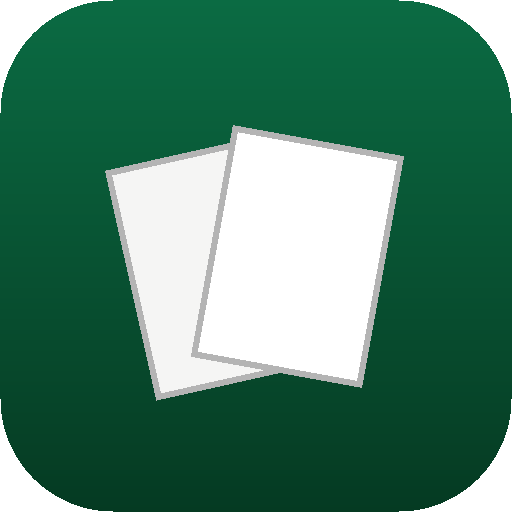
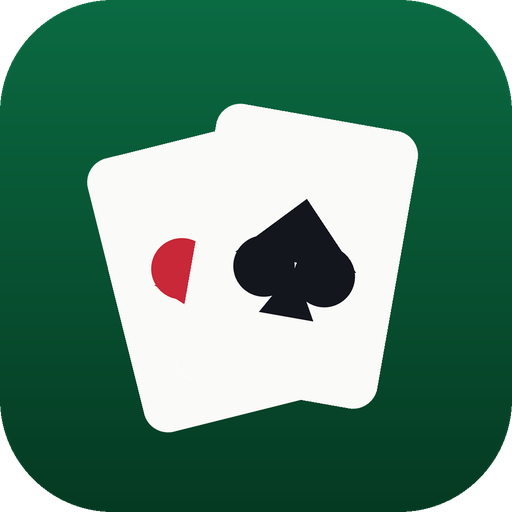
Kit de publication : icône + bannière Play + docs pub/assets
Visuels générés (Pillow, script versionné dans store-assets/gen_icon.py) :
- icône feutre vert + 2 cartes : store-assets/icon-1024.png (App Store) + jeux
  public/ (192/512/180 + 512-maskable, câblée au manifest) + feature graphic
  1024x500 (Google Play).
Docs :
- ADS.md : comment mettre des pubs (AdMob/Capacitor, formats, consentement ATT/RGPD,
  freemium, eCPM) — rien d'activé, abstraction prête.
- PUBLISHING_ASSETS.md : ce qui est prêt + shot-list des 6 captures (avec légendes)
  + étapes humaines restantes.
- PRODUCT.md §0 : veille concurrentielle.

Build OK.

Claude-Session: https://claude.ai/code/session_01Kri6QrzXn4ydx2p7ALmrP3

Changed region(s): [[0.1562, 0.1875, 0.8438, 0.8438]]

diff --git a/vite.config.ts b/vite.config.ts
@@ -38,7 +38,7 @@ export default defineConfig({
           { src: "icon-192.png", sizes: "192x192", type: "image/png" },
           { src: "icon-512.png", sizes: "512x512", type: "image/png" },
           {
-            src: "icon-512.png",
+            src: "icon-512-maskable.png",
             sizes: "512x512",
             type: "image/png",
             purpose: "maskable",

diff --git a/store-assets/gen_icon.py b/store-assets/gen_icon.py
@@ -1,0 +1,79 @@
+from PIL import Image, ImageDraw, ImageFont
+import math, os
+
+GREEN_TOP=(11,107,67); GREEN_BOT=(5,58,34); GOLD=(245,197,24)
+WHITE=(250,250,249); BLACK=(20,22,29); RED=(200,40,55)
+
+def vgrad(w,h,top,bot):
+    img=Image.new("RGB",(w,h))
+    px=img.load()
+    for y in range(h):
+        t=y/(h-1)
+        px_row=tuple(int(top[i]+(bot[i]-top[i])*t) for i in range(3))
+        for x in range(w): px[x,y]=px_row
+    return img
+
+def rounded_mask(w,h,r):
+    m=Image.new("L",(w,h),0); d=ImageDraw.Draw(m)
+    d.rounded_rectangle([0,0,w-1,h-1],radius=r,fill=255); return m
+
+def heart(d,cx,cy,s,color):
+    d.polygon([(cx,cy+s*0.95),(cx-s,cy-s*0.1),(cx+s,cy-s*0.1)],fill=color)
+    d.ellipse([cx-s,cy-s*0.75,cx,cy+s*0.25],fill=color)
+    d.ellipse([cx,cy-s*0.75,cx+s,cy+s*0.25],fill=color)
+
+def spade(d,cx,cy,s,color):
+    # corps = coeur inversé
+    d.polygon([(cx,cy-s*0.95),(cx-s,cy+s*0.1),(cx+s,cy+s*0.1)],fill=color)
+    d.ellipse([cx-s,cy-s*0.25,cx,cy+s*0.75],fill=color)
+    d.ellipse([cx,cy-s*0.25,cx+s,cy+s*0.75],fill=color)
+    # pied
+    d.polygon([(cx,cy+s*0.2),(cx-s*0.45,cy+s),(cx+s*0.45,cy+s)],fill=color)
+
+def card(base, cx, cy, w, h, angle, draw_suit):
+    SS=4
+    c=Image.new("RGBA",(w*SS,h*SS),(0,0,0,0)); d=ImageDraw.Draw(c)
+    r=int(min(w,h)*SS*0.12)
+    d.rounded_rectangle([0,0,w*SS-1,h*SS-1],radius=r,fill=WHITE+(255,))
+    draw_suit(d, w*SS//2, h*SS//2, int(min(w,h)*SS*0.30))
+    c=c.resize((w,h),Image.LANCZOS).rotate(angle,expand=True,resample=Image.BICUBIC)
+    base.alpha_composite(c,(cx-c.width//2, cy-c.height//2))
+
+def make_icon(size):
+    SS=2; W=size*SS
+    bg=vgrad(W,W,GREEN_TOP,GREEN_BOT).convert("RGBA")
+    d=ImageDraw.Draw(bg)
+    # deux cartes
+    card(bg, int(W*0.42), int(W*0.54), int(W*0.40), int(W*0.55), 14, lambda dr,x,y,s: heart(dr,x,y,s,RED))
+    card(bg, int(W*0.58), int(W*0.50), int(W*0.40), int(W*0.55), -10, lambda dr,x,y,s: spade(dr,x,y,s,BLACK))
+    # masque arrondi
+    m=rounded_mask(W,W,int(W*0.22))
+    out=Image.new("RGBA",(W,W),(0,0,0,0)); out.paste(bg,(0,0),m)
+    return out.resize((size,size),Image.LANCZOS)
+
+os.makedirs("store-assets",exist_ok=True)
+for sz,path in [(1024,"store-assets/icon-1024.png"),(512,"public/icon-512.png"),
+                (192,"public/icon-192.png"),(180,"public/apple-touch-icon.png")]:
+    make_icon(sz).save(path)
+    print("écrit",path)
+
+# Maskable 512 (zone de sécurité : icône plus petite, fond plein)
+mask=Image.new("RGBA",(512,512),(0,0,0,0))
+mbg=vgrad(512,512,GREEN_TOP,GREEN_BOT).convert("RGBA")
+mask.paste(mbg,(0,0))
+ic=make_icon(360); mask.alpha_composite(ic,(76,76))
+mask.save("public/icon-512-maskable.png"); print("écrit public/icon-512-maskable.png")
+
+# Bannière Google Play 1024x500
+fg=vgrad(1024,500,GREEN_TOP,GREEN_BOT).convert("RGBA")
+ic=make_icon(300); fg.alpha_composite(ic,(70,100))
+d=ImageDraw.Draw(fg)
+def font(sz):
+    for p in ["/usr/share/fonts/truetype/dejavu/DejaVuSans-Bold.ttf","/usr/share/fonts/truetype/dejavu/DejaVuSans.ttf"]:
+        if os.path.exists(p): return ImageFont.truetype(p,sz)
+    return ImageFont.load_default()
+d.text((420,150),"Coincheur",font=font(96),fill=WHITE)
+d.text((422,260),"Coinche & Belote contrée",font=font(40),fill=GOLD)
+d.text((422,320),"Coach • Sans pub • Hors-ligne",font=font(34),fill=(220,230,225))
+fg.convert("RGB").save("store-assets/feature-graphic-1024x500.png"); print("écrit store-assets/feature-graphic-1024x500.png")
+print("OK")

diff --git a/ADS.md b/ADS.md
@@ -1,0 +1,56 @@
+# Mettre des pubs sur l'app — guide (à terme)
+
+> Décision : pubs **plus tard**, en mode freemium. Rien d'activé aujourd'hui
+> (`entitlements.ts` : `adsEnabled = false`, `premium = true`). Voici le « comment ».
+
+## En une phrase
+On s'inscrit à une **régie publicitaire** (réseau de pub), on installe son **SDK**,
+on crée des **emplacements** (formats de pub), on les **affiche** aux joueurs gratuits,
+et la régie nous **paie** selon les affichages/clics.
+
+## 1. Choisir la régie
+- **Google AdMob** = le standard pour les apps mobiles (le plus simple, gros volume).
+- Alternatives / mediation (pour maximiser le revenu) : AppLovin MAX, Unity Ads,
+  ironSource, Meta Audience Network. On peut commencer **AdMob seul**, ajouter la
+  « mediation » plus tard.
+
+## 2. Les formats de pub (et où on les met)
+- **Bannière** : petit bandeau (haut/bas), discret. → écrans hors-jeu (accueil, listes).
+- **Interstitiel** : plein écran entre deux actions. → **entre deux parties / donnes**,
+  JAMAIS au milieu d'un pli. Avec **plafond de fréquence** (ex. 1 / 3-4 donnes).
+- **Récompensé (rewarded)** : l'utilisateur **choisit** de regarder une vidéo pour un
+  bonus (ex. « voir l'analyse coach », « indice »). Le plus rentable et le mieux toléré.
+
+> Leçon des avis du concurrent : c'est la pub **forcée et trop fréquente** qui fait fuir.
+> On privilégie **rewarded + interstitiel espacé**, jamais en pleine donne.
+
+## 3. Intégration technique (app native via Capacitor)
+1. Compte AdMob → créer l'app → créer les **ad units** (on obtient des identifiants).
+2. Installer le plugin : `npm i @capacitor-community/admob` puis `npx cap sync`.
+3. Initialiser au démarrage, puis afficher selon le format. Tout passe **derrière notre
+   abstraction** `entitlements.ts` : on n'affiche QUE si `adsEnabled && !premium`.
+4. **Consentement (obligatoire)** :
+   - iOS : **App Tracking Transparency** (pop-up « Autoriser le suivi ? ») pour la pub
+     personnalisée ; sinon pub non-personnalisée.
+   - Europe (RGPD) : **CMP/UMP** (formulaire de consentement Google) au 1er lancement.
+   - Déclarer la collecte pub dans App Privacy / Data Safety (ça change notre étiquette
+     « aucune donnée » → voir `SUBMISSION.md`, et retirer « sans pub » des fiches).
+5. **Tester avec les identifiants de test** d'AdMob (sinon risque de bannissement), puis
+   passer en réel pour la publication.
+
+## 4. Le modèle « freemium » (recommandé)
+- **Gratuit** : pubs discrètes (rewarded + interstitiel espacé).
+- **Premium** : achat in-app **« Retirer les pubs »** (une fois) et/ou petit abonnement,
+  qui met `premium = true` → plus aucune pub + bonus éventuels.
+- Achats : `@capacitor/in-app-purchases` ou **RevenueCat** (gère iOS+Android).
+
+## 5. Combien ça rapporte (ordre de grandeur)
+Très variable : la pub se mesure en **eCPM** (revenu pour 1000 affichages), souvent
+**2–8 €** en FR pour de l'interstitiel/rewarded. Le gros du revenu vient du **rewarded**
+et du **premium**, pas de la bannière. À 1000 joueurs actifs/jour, on parle de quelques
+€ à quelques dizaines d'€/jour selon l'engagement — d'où l'importance de la rétention.
+
+## 6. Ce qui est déjà prêt côté code
+- `src/state/entitlements.ts` : `premium` / `adsEnabled` / `canUse`.
+- Le jour J : créer un composant `<AdBanner>` (no-op si `!adsEnabled`), brancher le SDK,
+  ajouter l'achat premium. **Aucune refonte** — on « allume l'interrupteur ».

diff --git a/PUBLISHING_ASSETS.md b/PUBLISHING_ASSETS.md
@@ -1,0 +1,48 @@
+# Kit de publication — visuels & textes
+
+> Tout ce qui peut être généré par le code est prêt. Le reste = comptes payants +
+> captures d'écran (à faire sur appareil) + 2 infos d'identité. Textes : `STORE_LISTING.md`.
+
+## ✅ Visuels GÉNÉRÉS (dans le dépôt)
+- **Icône** (carrée, feutre vert + 2 cartes) :
+  - `store-assets/icon-1024.png` → **App Store** (1024×1024).
+  - `public/icon-512.png`, `public/icon-192.png`, `public/apple-touch-icon.png` (180),
+    `public/icon-512-maskable.png` → app/PWA/Android (déjà câblés dans le manifest).
+- **Bannière Google Play** : `store-assets/feature-graphic-1024x500.png` (1024×500).
+- **Pages légales publiques** (exigées) : `…/privacy.html` et `…/terms.html` (en ligne).
+
+> L'icône est un placeholder propre et cohérent ; remplaçable plus tard par un visuel pro.
+
+## ✅ Textes PRÊTS — voir `STORE_LISTING.md`
+Nom, sous-titre, descriptions FR (courte + longue), mots-clés, notes de version,
+catégorie, classification. Réponses aux questionnaires : `SUBMISSION.md`.
+
+## 📸 Captures d'écran — à PRODUIRE (sur appareil/navigateur)
+Apple et Google exigent des captures. Comment faire simplement :
+1. Ouvre le site **en mode application** (installé) ou dans Chrome → DevTools →
+   mode appareil (iPhone 6.7″ = 1290×2796, 6.5″ = 1242×2688 ; Android 1080×1920).
+2. Capture ces **6 écrans** (l'ordre = l'ordre d'affichage sur la fiche) :
+
+| # | Écran | Légende à ajouter en haut |
+|---|-------|---------------------------|
+| 1 | Une partie en cours (table) | « Joue à la Coinche, sans pub » |
+| 2 | Coach en direct (bulle 💡) | « Un coach qui t'explique chaque coup » |
+| 3 | Mes parties → précision % | « Analyse tes parties (façon game review) » |
+| 4 | Progression (courbe + niveau) | « Progresse : niveau, série, courbe » |
+| 5 | Défi du jour | « Le défi du jour, la même donne pour tous » |
+| 6 | Compteur de points | « Compteur pour tes parties à la vraie carte » |
+
+Astuce : garde un **bandeau de titre** court et lisible en haut de chaque capture
+(fond vert, texte blanc), cohérent avec l'icône.
+
+## 🙋 Ce qu'il te reste à faire (hors code)
+1. **Comptes développeur** : Apple Developer (99 $/an) + Google Play Console (25 $).
+2. **2 infos** à renseigner (puis je les mets partout) : **nom d'éditeur** + **email de
+   contact** → remplacent les `[À COMPLÉTER]` de `privacy.html`/`terms.html`/`config.ts`.
+3. **Packaging natif** (Capacitor) sur un Mac (iOS) + Android Studio → cf. `STORE.md`.
+4. **Captures** (ci-dessus) + uploader icône/ bannière.
+5. **Soumettre** en recopiant `STORE_LISTING.md` + `SUBMISSION.md`.
+
+## Régénérer les visuels
+Script : `/tmp/gen_icon.py` (Pillow). Pour changer couleurs/forme, édite-le et relance
+`python3 /tmp/gen_icon.py`. (Je peux aussi l'intégrer au dépôt si tu veux le versionner.)